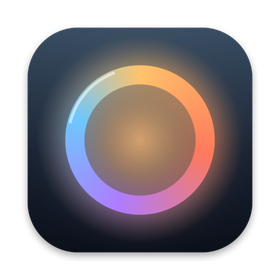
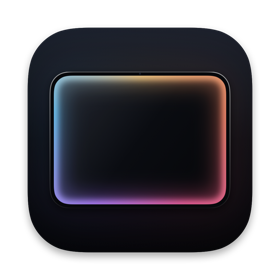
Replace the ring with a new mark: an iPad with a halo of light
The icon is an iPad at night, its screen glowing round the edge, warm to cool.
The menu bar shows the same iPad, and the banner glows to match.

diff --git a/scripts/icon/AppIcon.swift b/scripts/icon/AppIcon.swift
@@ -1,108 +1,168 @@
-// Draws Halo's app icon: a ring of warm-to-cool light over a dusk sky.
+// Draws Halo's app icon: an iPad at night, its screen dark but for a halo of light running
+// round the inside of its edge, warm at the top and cool at the sides.
 //
-//   swift scripts/icon/AppIcon.swift ios  out.png   full bleed; iOS masks the corners itself
-//   swift scripts/icon/AppIcon.swift mac  out.png   inside the macOS rounded square, with its shadow
+//   swiftc -O scripts/icon/AppIcon.swift -o build/AppIcon
+//   build/AppIcon ios  out.png   full bleed; iOS masks the corners itself
+//   build/AppIcon mac  out.png   inside the macOS rounded square, with its shadow
 //
-// scripts/make-icons.sh runs both and fills the asset catalogs.
+// scripts/make-icons.sh compiles it (the conic gradient is computed per pixel) and runs both.
 
 import AppKit
 import CoreImage
+import SwiftUI
 
 let arguments = CommandLine.arguments
 guard arguments.count == 3, ["ios", "mac"].contains(arguments[1]) else {
-    print("usage: swift AppIcon.swift ios|mac out.png")
+    print("usage: AppIcon ios|mac out.png")
     exit(64)
 }
 let isMac = arguments[1] == "mac"
 let canvas: CGFloat = 1024
+let full = CGRect(x: 0, y: 0, width: canvas, height: canvas)
+let space = CGColorSpace(name: CGColorSpace.sRGB)!
 
 func color(_ hex: UInt32, _ alpha: CGFloat = 1) -> CGColor {
     CGColor(srgbRed: CGFloat((hex >> 16) & 0xFF) / 255, green: CGFloat((hex >> 8) & 0xFF) / 255, blue: CGFloat(hex & 0xFF) / 255, alpha: alpha)
 }
 
-let space = CGColorSpace(name: CGColorSpace.sRGB)!
-let context = CGContext(data: nil, width: Int(canvas), height: Int(canvas), bitsPerComponent: 8, bytesPerRow: 0,
-                        space: space, bitmapInfo: CGImageAlphaInfo.premultipliedLast.rawValue)!
+func makeLayer() -> CGContext {
+    CGContext(data: nil, width: Int(canvas), height: Int(canvas), bitsPerComponent: 8, bytesPerRow: 0,
+              space: space, bitmapInfo: CGImageAlphaInfo.premultipliedLast.rawValue)!
+}
 
-// The macOS icon grid: an 824-point rounded square, centred, with Apple's soft drop shadow.
-let body = isMac ? CGRect(x: 100, y: 100, width: 824, height: 824) : CGRect(x: 0, y: 0, width: canvas, height: canvas)
-let bodyPath = CGPath(roundedRect: body, cornerWidth: isMac ? 185 : 0, cornerHeight: isMac ? 185 : 0, transform: nil)
+let ciContext = CIContext()
+func blurred(_ image: CGImage, _ radius: CGFloat) -> CGImage {
+    let output = CIImage(cgImage: image).clampedToExtent().applyingGaussianBlur(sigma: radius).cropped(to: full)
+    return ciContext.createCGImage(output, from: full)!
+}
+
+func continuous(_ rect: CGRect, radius: CGFloat) -> CGPath {
+    RoundedRectangle(cornerRadius: radius, style: .continuous).path(in: rect).cgPath
+}
+
+// The macOS icon grid: an 824-point rounded square, centred. iOS fills the canvas.
+let body = isMac ? CGRect(x: 100, y: 100, width: 824, height: 824) : full
+let unit = body.width / 824
+let center = CGPoint(x: body.midX, y: body.midY)
+
+// The iPad, in landscape at its real 4:3, with Apple's continuous corners.
+let device = CGRect(x: center.x - 330 * unit, y: center.y - 250 * unit, width: 660 * unit, height: 500 * unit)
+let deviceRadius = 70 * unit
+let screen = device.insetBy(dx: 14 * unit, dy: 14 * unit)
+let screenRadius = deviceRadius - 12 * unit
+
+// The halo's colours, clockwise from the top: amber, coral, rose, violet, sky.
+let stops: [(CGFloat, UInt32)] = [(0, 0xFFC46B), (0.2, 0xFF7A59), (0.4, 0xF2508C), (0.6, 0xA06BFF), (0.8, 0x4FB8FF), (1, 0xFFC46B)]
+
+/// A conic gradient over the whole canvas. Core Graphics has none, so it's computed per pixel.
+let conic: CGImage = {
+    let side = Int(canvas)
+    var pixels = [UInt8](repeating: 255, count: side * side * 4)
+    func channel(_ value: UInt32, _ shift: UInt32) -> CGFloat { CGFloat((value >> shift) & 0xFF) }
+    for y in 0..<side {
+        for x in 0..<side {
+            var t = atan2(CGFloat(x) - center.x, -(CGFloat(y) - center.y)) / (2 * .pi)
+            if t < 0 { t += 1 }
+            let upper = stops.firstIndex { $0.0 >= t } ?? stops.count - 1
+            let (t1, c1) = stops[max(upper - 1, 0)], (t2, c2) = stops[upper]
+            let f = t2 > t1 ? (t - t1) / (t2 - t1) : 0
+            let index = (y * side + x) * 4
+            for (offset, shift) in [UInt32(16), 8, 0].enumerated() {
+                pixels[index + offset] = UInt8(channel(c1, shift) + (channel(c2, shift) - channel(c1, shift)) * f)
+            }
+        }
+    }
+    return CGImage(width: side, height: side, bitsPerComponent: 8, bitsPerPixel: 32, bytesPerRow: side * 4, space: space,
+                   bitmapInfo: CGBitmapInfo(rawValue: CGImageAlphaInfo.noneSkipLast.rawValue),
+                   provider: CGDataProvider(data: Data(pixels) as CFData)!, decode: nil, shouldInterpolate: true, intent: .defaultIntent)!
+}()
+
+/// The conic colours wherever `shape` paints white, on a transparent layer.
+func lit(_ shape: (CGContext) -> Void) -> CGImage {
+    let mask = CGContext(data: nil, width: Int(canvas), height: Int(canvas), bitsPerComponent: 8, bytesPerRow: 0,
+                         space: CGColorSpaceCreateDeviceGray(), bitmapInfo: CGImageAlphaInfo.none.rawValue)!
+    mask.setFillColor(gray: 0, alpha: 1)
+    mask.fill(full)
+    shape(mask)
+    let layer = makeLayer()
+    layer.clip(to: full, mask: mask.makeImage()!)
+    layer.draw(conic, in: full)
+    return layer.makeImage()!
+}
+
+let context = makeLayer()
+
+func glow(_ image: CGImage, alpha: CGFloat) {
+    context.saveGState()
+    context.setBlendMode(.screen)
+    context.setAlpha(alpha)
+    context.draw(image, in: full)
+    context.restoreGState()
+}
+
+let bodyPath = isMac ? continuous(body, radius: 185) : CGPath(rect: body, transform: nil)
 if isMac {
     context.saveGState()
-    context.setShadow(offset: CGSize(width: 0, height: -12), blur: 28, color: color(0x000000, 0.35))
+    context.setShadow(offset: CGSize(width: 0, height: -14), blur: 30, color: color(0x000000, 0.35))
     context.addPath(bodyPath)
-    context.setFillColor(color(0x10141F))
+    context.setFillColor(color(0x0A0C11))
     context.fillPath()
     context.restoreGState()
 }
 context.addPath(bodyPath)
 context.clip()
 
-// Sky: slate above, deep navy below, a low amber sun behind the ring.
-let sky = CGGradient(colorsSpace: space, colors: [color(0x3A4E63), color(0x1A2333), color(0x0B1019)] as CFArray, locations: [0, 0.55, 1])!
-context.drawLinearGradient(sky, start: CGPoint(x: body.midX, y: body.maxY), end: CGPoint(x: body.midX, y: body.minY), options: [])
-let sun = CGGradient(colorsSpace: space, colors: [color(0xF4B678, 0.85), color(0xF4B678, 0)] as CFArray, locations: [0, 1])!
-let center = CGPoint(x: body.midX, y: body.midY)
-context.drawRadialGradient(sun, startCenter: center, startRadius: 0, endCenter: center, endRadius: body.width * 0.46, options: [])
+// Night, lifted a touch at the top as if lit from above.
+let night = CGGradient(colorsSpace: space, colors: [color(0x1A1F2B), color(0x0A0C11), color(0x040507)] as CFArray, locations: [0, 0.5, 1])!
+context.drawLinearGradient(night, start: CGPoint(x: body.midX, y: body.maxY), end: CGPoint(x: body.midX, y: body.minY), options: [])
 
-// The halo: a ring whose light turns from amber through coral and violet to sky, drawn as many
-// short arcs since Core Graphics has no conic gradient.
-let stops: [(CGFloat, UInt32)] = [(0, 0xFFC46B), (0.28, 0xFF7A5C), (0.55, 0xB07CFF), (0.8, 0x6EC8FF), (1, 0xFFC46B)]
-func ringColor(at t: CGFloat, alpha: CGFloat) -> CGColor {
-    let upper = stops.firstIndex { $0.0 >= t } ?? stops.count - 1
-    let (t1, c1) = stops[max(upper - 1, 0)], (t2, c2) = stops[upper]
-    let f = t2 > t1 ? (t - t1) / (t2 - t1) : 0
-    func channel(_ shift: UInt32) -> CGFloat {
-        let a = CGFloat((c1 >> shift) & 0xFF), b = CGFloat((c2 >> shift) & 0xFF)
-        return (a + (b - a) * f) / 255
-    }
-    return CGColor(srgbRed: channel(16), green: channel(8), blue: channel(0), alpha: alpha)
+let edge = lit { mask in
+    mask.addPath(continuous(screen, radius: screenRadius))
+    mask.setLineWidth(30 * unit)
+    mask.setStrokeColor(gray: 1, alpha: 1)
+    mask.strokePath()
 }
 
-let radius = body.width * 0.29
-let segments = 720
+// Some of the light spills past the bezel onto the night around it.
+glow(blurred(edge, 90 * unit), alpha: 0.45)
 
-/// The ring alone, on a transparent layer the size of the canvas.
-func ringLayer(width: CGFloat) -> CGImage {
-    let layer = CGContext(data: nil, width: Int(canvas), height: Int(canvas), bitsPerComponent: 8, bytesPerRow: 0,
-                          space: space, bitmapInfo: CGImageAlphaInfo.premultipliedLast.rawValue)!
-    layer.setLineCap(.butt)
-    layer.setLineWidth(width)
-    for index in 0..<segments {
-        let t = CGFloat(index) / CGFloat(segments)
-        let start = .pi / 2 - t * 2 * .pi
-        // A hair of overlap hides the joins between arcs; the ring is opaque, so no seams show.
-        let end = start - 2 * .pi / CGFloat(segments) - 0.002
-        layer.setStrokeColor(ringColor(at: t, alpha: 1))
-        layer.addArc(center: center, radius: radius, startAngle: start, endAngle: end, clockwise: true)
-        layer.strokePath()
-    }
-    return layer.makeImage()!
-}
-
-let ring = ringLayer(width: body.width * 0.085)
-
-// The glow: the same ring, blurred wide and laid underneath at partial strength.
-let blur = CIFilter(name: "CIGaussianBlur")!
-blur.setValue(CIImage(cgImage: ring), forKey: kCIInputImageKey)
-blur.setValue(body.width * 0.07, forKey: kCIInputRadiusKey)
-let glow = CIContext().createCGImage(blur.outputImage!.cropped(to: CGRect(x: 0, y: 0, width: canvas, height: canvas)),
-                                     from: CGRect(x: 0, y: 0, width: canvas, height: canvas))!
+// The iPad: a black slab with a soft shadow beneath.
+let devicePath = continuous(device, radius: deviceRadius)
 context.saveGState()
-context.setAlpha(0.85)
-context.draw(glow, in: CGRect(x: 0, y: 0, width: canvas, height: canvas))
+context.setShadow(offset: CGSize(width: 0, height: -10 * unit), blur: 30 * unit, color: color(0x000000, 0.6))
+context.addPath(devicePath)
+context.setFillColor(color(0x07080B))
+context.fillPath()
 context.restoreGState()
-context.draw(ring, in: CGRect(x: 0, y: 0, width: canvas, height: canvas))
 
-// A thin bright rim on the ring's upper left, where light would catch it.
+// The bezel's edge catches the light along the top and fades away below.
 context.saveGState()
-context.setLineWidth(body.width * 0.012)
-context.setStrokeColor(color(0xFFFFFF, 0.55))
-context.setLineCap(.round)
-context.addArc(center: center, radius: radius + body.width * 0.03, startAngle: .pi * 0.62, endAngle: .pi * 0.92, clockwise: false)
-context.strokePath()
+context.addPath(devicePath)
+context.setLineWidth(3 * unit)
+context.replacePathWithStrokedPath()
+context.clip()
+let rim = CGGradient(colorsSpace: space, colors: [color(0xFFFFFF, 0.6), color(0xFFFFFF, 0.06)] as CFArray, locations: [0, 1])!
+context.drawLinearGradient(rim, start: CGPoint(x: device.midX, y: device.maxY), end: CGPoint(x: device.midX, y: device.minY), options: [])
+context.restoreGState()
+
+// The front camera, centred on the long top edge as on a current iPad.
+context.addEllipse(in: CGRect(x: device.midX - 3.5 * unit, y: device.maxY - 10.5 * unit, width: 7 * unit, height: 7 * unit))
+context.setFillColor(color(0x1C2230))
+context.fillPath()
+
+// The screen: dark glass, with the halo glowing in from its edges.
+let screenPath = continuous(screen, radius: screenRadius)
+context.saveGState()
+context.addPath(screenPath)
+context.clip()
+let glass = CGGradient(colorsSpace: space, colors: [color(0x161A24), color(0x0A0C11), color(0x050608)] as CFArray, locations: [0, 0.5, 1])!
+context.drawLinearGradient(glass, start: CGPoint(x: screen.minX, y: screen.maxY), end: CGPoint(x: screen.maxX, y: screen.minY), options: [])
+glow(blurred(edge, 40 * unit), alpha: 1)
+glow(blurred(edge, 12 * unit), alpha: 1)
+// A faint sheen across the upper left of the glass.
+let sheen = CGGradient(colorsSpace: space, colors: [color(0xFFFFFF, 0.07), color(0xFFFFFF, 0)] as CFArray, locations: [0, 1])!
+context.drawLinearGradient(sheen, start: CGPoint(x: screen.minX, y: screen.maxY), end: CGPoint(x: screen.midX, y: screen.midY), options: [])
 context.restoreGState()
 
 let image = context.makeImage()!
-let rep = NSBitmapImageRep(cgImage: image)
-try! rep.representation(using: .png, properties: [:])!.write(to: URL(filePath: arguments[2]))
+try! NSBitmapImageRep(cgImage: image).representation(using: .png, properties: [:])!.write(to: URL(filePath: arguments[2]))

diff --git a/scripts/banner/Banner.swift b/scripts/banner/Banner.swift
@@ -1,10 +1,13 @@
-// Draws Halo's banner: the icon and wordmark beside the iPad's home screen, over the icon's dusk sky.
+// Draws Halo's banner: the icon and wordmark beside the iPad's home screen, with the icon's halo of
+// light glowing round the iPad at night.
 //
 //   swift scripts/banner/Banner.swift <width> <height> <screenshot.png> <icon.png> <out.png>
 //
 // scripts/make-banner.sh draws the README banner and GitHub's social preview with it.
 
 import AppKit
+import CoreImage
+import SwiftUI
 
 let arguments = CommandLine.arguments
 guard arguments.count == 6, let width = Double(arguments[1]), let height = Double(arguments[2]) else {
@@ -25,12 +28,9 @@ let image = NSImage(size: size, flipped: false) { rect in
         CGColor(srgbRed: CGFloat((hex >> 16) & 0xFF) / 255, green: CGFloat((hex >> 8) & 0xFF) / 255, blue: CGFloat(hex & 0xFF) / 255, alpha: alpha)
     }
 
-    // The sky: the icon's, stretched to a stage, with the sun low behind the iPad.
-    let sky = CGGradient(colorsSpace: space, colors: [color(0x2E3E52), color(0x141B28), color(0x07090F)] as CFArray, locations: [0, 0.6, 1])!
+    // Night: the icon's, stretched to a stage.
+    let sky = CGGradient(colorsSpace: space, colors: [color(0x1A1F2B), color(0x0A0C11), color(0x040507)] as CFArray, locations: [0, 0.55, 1])!
     context.drawLinearGradient(sky, start: CGPoint(x: 0, y: rect.maxY), end: CGPoint(x: 0, y: 0), options: [])
-    let sunCenter = CGPoint(x: rect.width * 0.66, y: rect.height * 0.5)
-    let sun = CGGradient(colorsSpace: space, colors: [color(0xF4B678, 0.42), color(0xF4B678, 0)] as CFArray, locations: [0, 1])!
-    context.drawRadialGradient(sun, startCenter: sunCenter, startRadius: 0, endCenter: sunCenter, endRadius: rect.height * 0.75, options: [])
 
     // The iPad: the real home screen in a slim, dark bezel, casting a soft shadow.
     let screenHeight = rect.height * 0.62
@@ -39,20 +39,46 @@ let image = NSImage(size: size, flipped: false) { rect in
     let device = CGRect(x: rect.width - screenWidth - bezel * 2 - rect.width * 0.06,
                         y: (rect.height - screenHeight) / 2 - bezel, width: screenWidth + bezel * 2, height: screenHeight + bezel * 2)
     let deviceRadius = 64 * scale
+    func continuous(_ rect: CGRect, _ radius: CGFloat) -> CGPath {
+        RoundedRectangle(cornerRadius: radius, style: .continuous).path(in: rect).cgPath
+    }
+
+    // The halo: the icon's colours glowing out from round the iPad, warm above and cool below.
+    let pixels = CGSize(width: rect.width, height: rect.height)
+    let haloLayer = CGContext(data: nil, width: Int(pixels.width), height: Int(pixels.height), bitsPerComponent: 8, bytesPerRow: 0,
+                              space: space, bitmapInfo: CGImageAlphaInfo.premultipliedLast.rawValue)!
+    haloLayer.addPath(continuous(device, deviceRadius))
+    haloLayer.setLineWidth(40 * scale)
+    haloLayer.replacePathWithStrokedPath()
+    haloLayer.clip()
+    let spectrum = CGGradient(colorsSpace: space, colors: [color(0xFFC46B), color(0xFF7A59), color(0xF2508C), color(0xA06BFF), color(0x4FB8FF)] as CFArray,
+                              locations: [0, 0.25, 0.5, 0.75, 1])!
+    haloLayer.drawLinearGradient(spectrum, start: CGPoint(x: device.maxX, y: device.maxY), end: CGPoint(x: device.minX, y: device.minY), options: [])
+    let halo = CIImage(cgImage: haloLayer.makeImage()!).clampedToExtent()
+    let extent = CGRect(origin: .zero, size: pixels)
+    let ci = CIContext()
+    for (radius, alpha) in [(160.0, 0.55), (60.0, 0.6)] {
+        let glow = ci.createCGImage(halo.applyingGaussianBlur(sigma: radius * scale).cropped(to: extent), from: extent)!
+        context.saveGState()
+        context.setBlendMode(.screen)
+        context.setAlpha(alpha)
+        context.draw(glow, in: rect)
+        context.restoreGState()
+    }
+
     context.saveGState()
     context.setShadow(offset: CGSize(width: 0, height: -30 * scale), blur: 90 * scale, color: color(0x000000, 0.6))
-    context.addPath(CGPath(roundedRect: device, cornerWidth: deviceRadius, cornerHeight: deviceRadius, transform: nil))
+    context.addPath(continuous(device, deviceRadius))
     context.setFillColor(color(0x0A0B0E))
     context.fillPath()
     context.restoreGState()
-    context.addPath(CGPath(roundedRect: device.insetBy(dx: 1.5 * scale, dy: 1.5 * scale),
-                           cornerWidth: deviceRadius, cornerHeight: deviceRadius, transform: nil))
+    context.addPath(continuous(device.insetBy(dx: 1.5 * scale, dy: 1.5 * scale), deviceRadius))
     context.setStrokeColor(color(0x3A3C42))
     context.setLineWidth(3 * scale)
     context.strokePath()
     let screen = device.insetBy(dx: bezel, dy: bezel)
     context.saveGState()
-    context.addPath(CGPath(roundedRect: screen, cornerWidth: deviceRadius - bezel, cornerHeight: deviceRadius - bezel, transform: nil))
+    context.addPath(continuous(screen, deviceRadius - bezel))
     context.clip()
     screenshot.draw(in: screen)
     context.restoreGState()

diff --git a/Apps/HaloMac/Sources/HaloMacApp.swift b/Apps/HaloMac/Sources/HaloMacApp.swift
@@ -18,7 +18,8 @@ struct HaloMacApp: App {
                 .environment(helper.pads)
                 .environment(helper.trackpad)
         } label: {
-            Image(systemName: helper.agents.needsAttention ? "circle.inset.filled" : "circle")
+            // The icon's iPad, with a badge when an agent needs you.
+            Image(systemName: helper.agents.needsAttention ? "ipad.landscape.badge.exclamationmark" : "ipad.landscape")
         }
         .menuBarExtraStyle(.window)
     }
